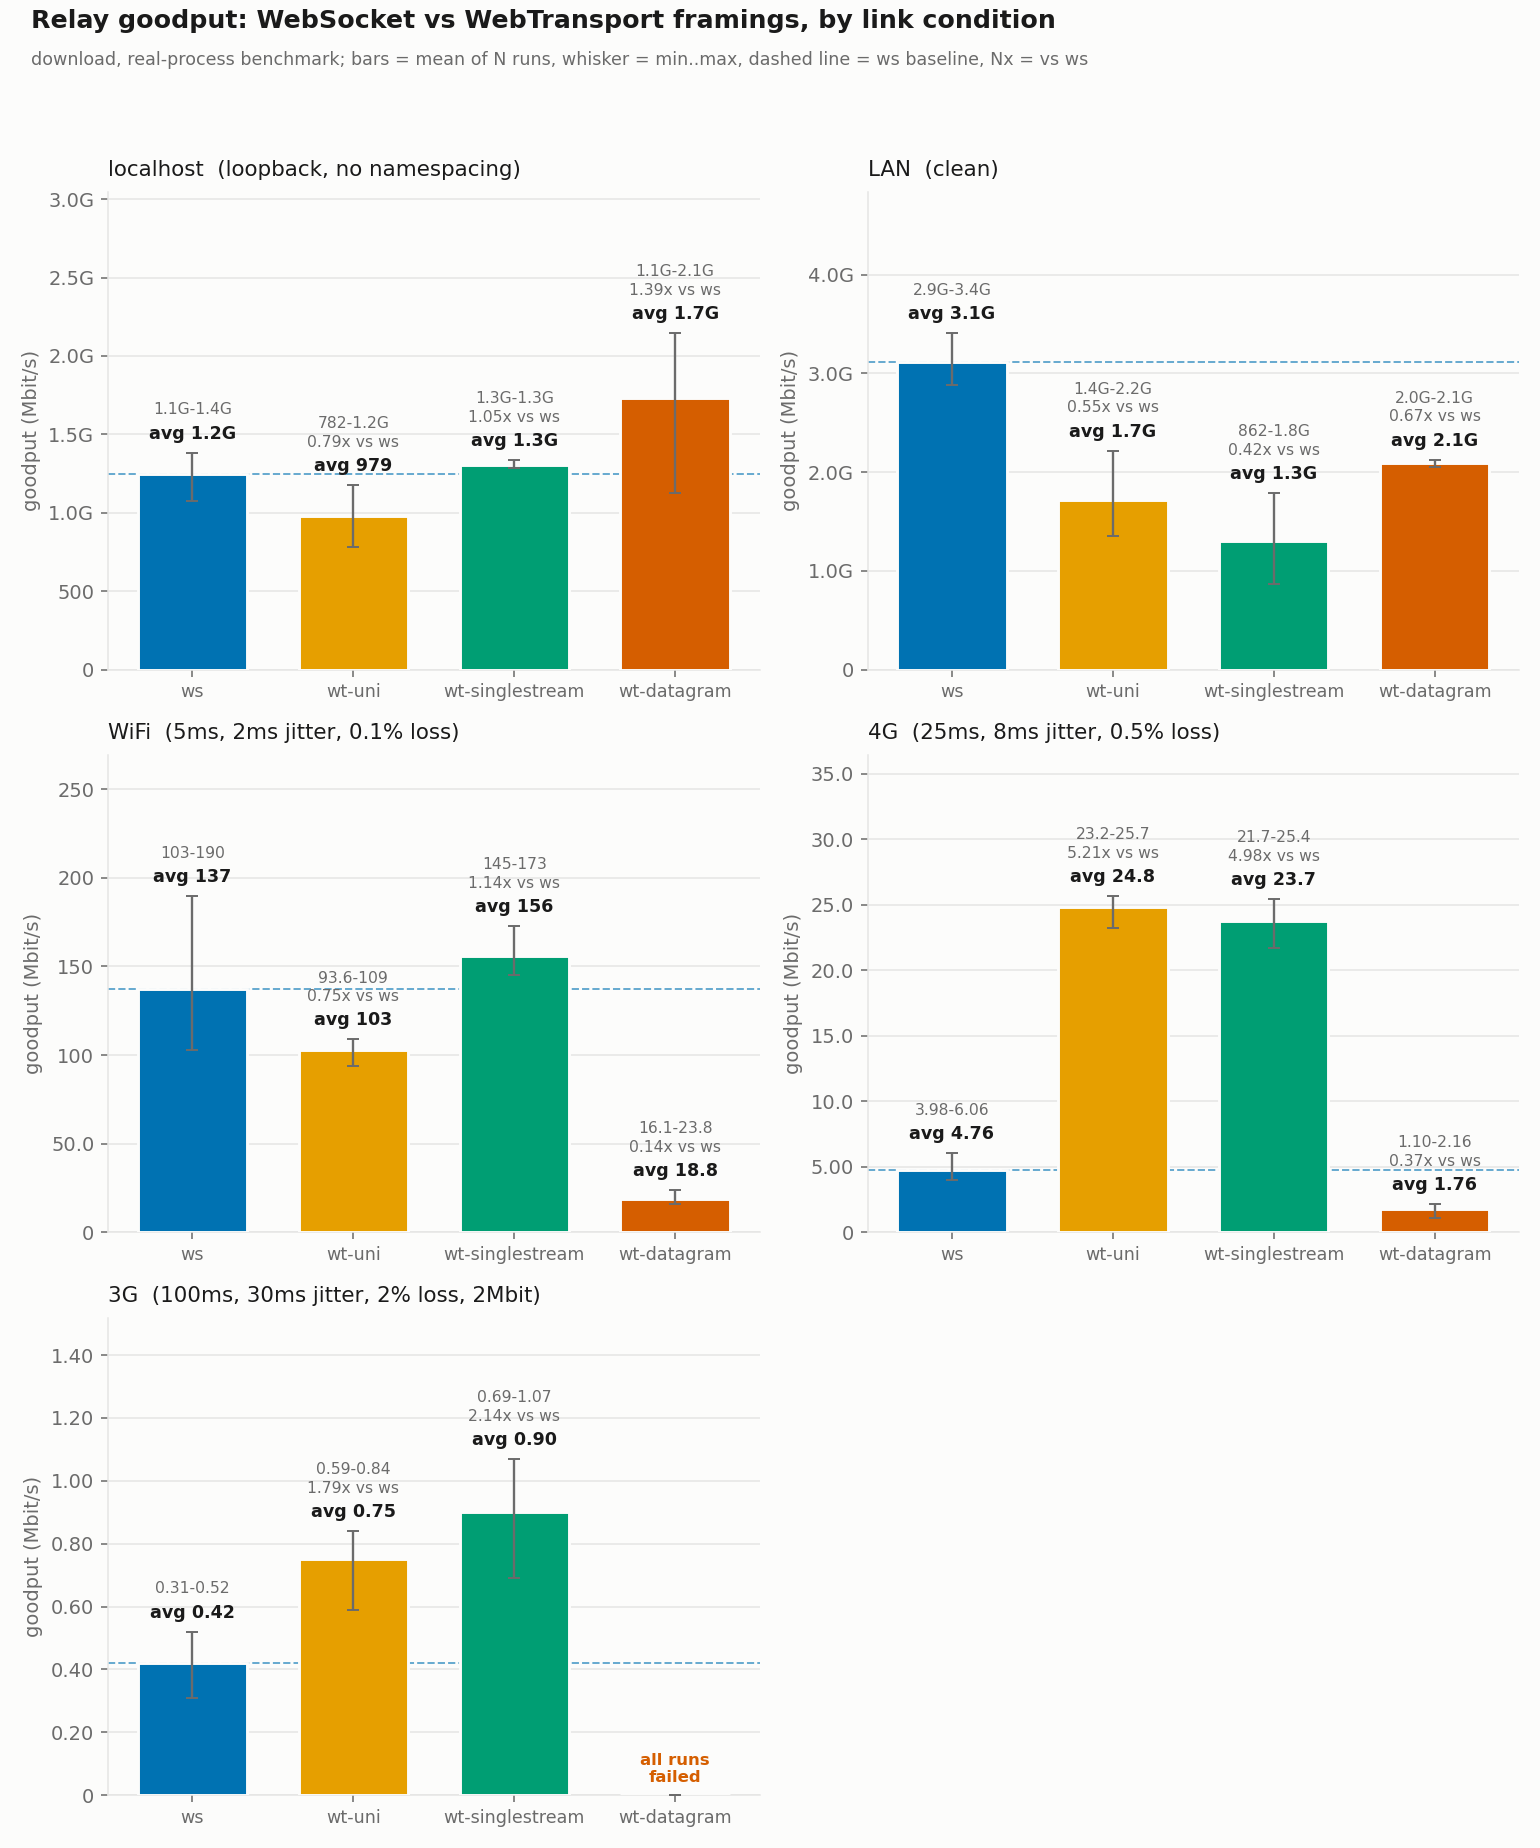
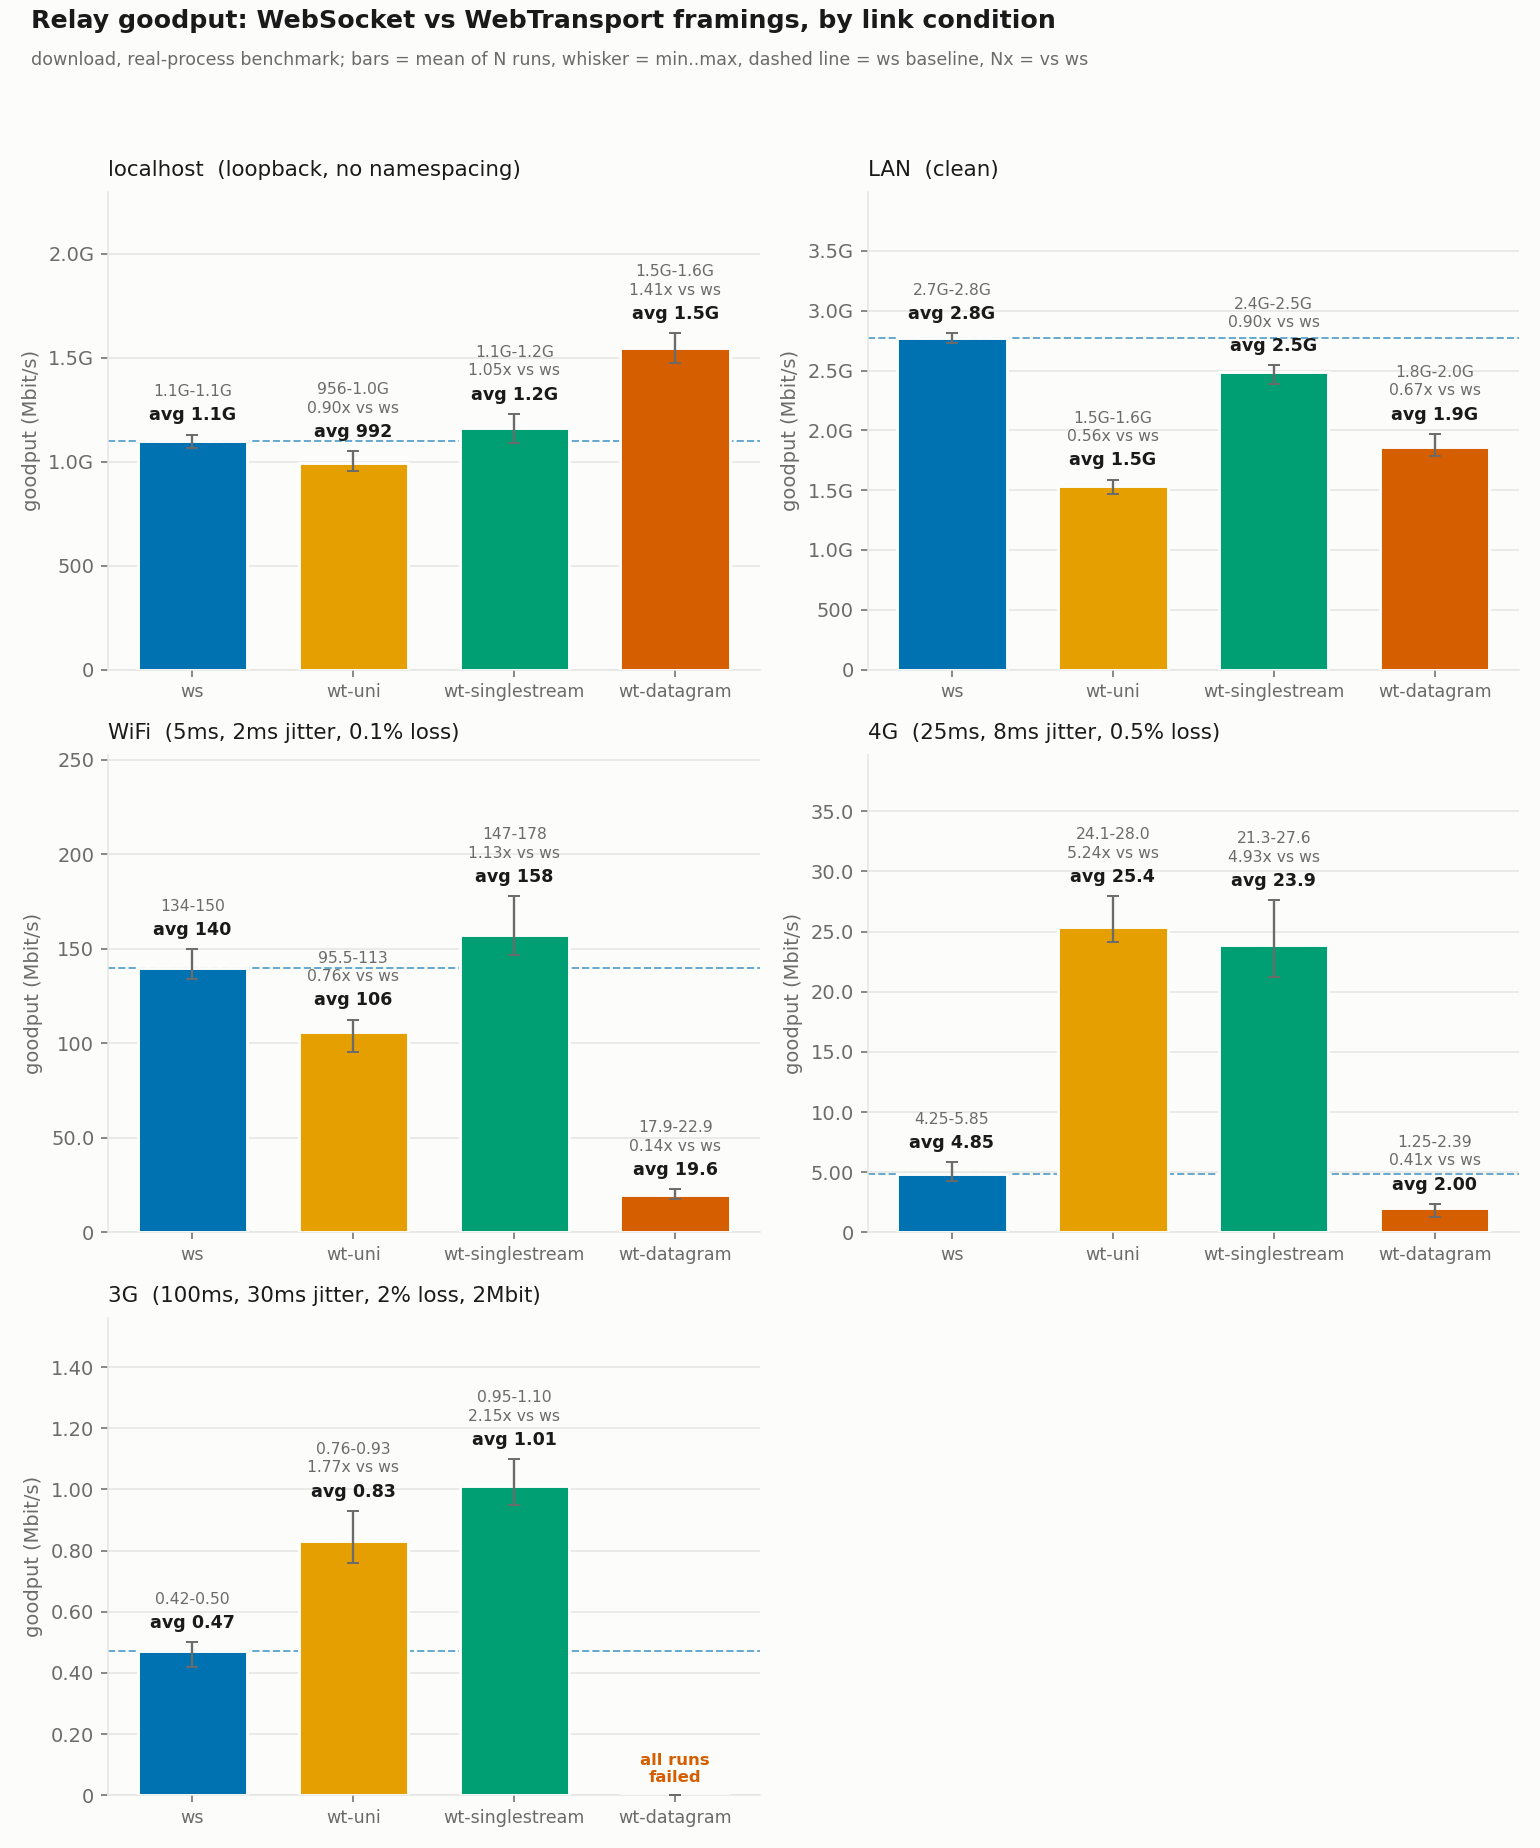
docs(bench): correct results to forced-WebTransport, drop contaminated set
The saved matrix now forces WebTransport for every wt-* run, so those numbers
are guaranteed to be over WebTransport rather than a silent WebSocket fallback
(which the client does on a fast path where the WS handshake wins the race). The
earlier localhost wt-datagram figure was actually WebSocket; corrected here.

Drops patchbay-5x4s, which predates the --webtransport-only fix and whose
fast-path (lan) wt cells may have raced to WebSocket. matrix-3x10s is now the
single authoritative set. bench.md documents the WS-fallback caveat.

diff --git a/bench/results/bench.md b/bench/results/bench.md
@@ -69,26 +69,37 @@ transport on an ideal path.
 
 | file | harness | runs x duration | notes |
 | ---- | ------- | --------------- | ----- |
-| `matrix-3x10s`  | patchbay + loopback | 3 x 10 s | the definitive steady-state sweep, incl. the `localhost` panel |
-| `patchbay-5x4s` | patchbay | 5 x 4 s | short-duration sweep (more slow-start weight, noisier on fast links) |
+| `matrix-3x10s`  | patchbay + loopback | 3 x 10 s | the authoritative steady-state sweep, incl. the `localhost` panel; all wt-* runs force WebTransport |
 
 ### `matrix-3x10s` numbers (download goodput, Mbit/s, mean of 3)
 
+Every `wt-*` run forces the WebTransport transport (`--webtransport-only`), so
+these numbers are guaranteed to be over WebTransport and never a silent
+WebSocket fallback. That fallback matters here: the relay client races a
+WebSocket connect against the WebTransport handshake and keeps whichever wins,
+and on a fast path (localhost, and often lan) the WebSocket TCP handshake wins,
+so without forcing it a `wt-*` request is served over WebSocket. (An earlier run
+of this table had localhost `wt-datagram` = 1729 which was actually WebSocket;
+the corrected genuine-WebTransport value is below.)
+
 | condition | ws | wt-uni | wt-singlestream | wt-datagram |
 | --------- | -- | ------ | --------------- | ----------- |
-| localhost | 1247 | 979 | 1303 | **1729** |
-| lan       | **3116** | 1721 | 1301 | 2092 |
-| wifi      | 137 | 103 | **156** (1.14x) | 19 |
-| 4g        | 4.8 | **24.8** (5.2x) | 23.7 (5.0x) | 1.8 |
-| 3g        | 0.42 | 0.75 (1.8x) | **0.90** (2.1x) | fail (flaky setup) |
+| localhost | 1101 | 992 | 1161 | **1548** |
+| lan       | **2769** | 1538 | 2485 | 1858 |
+| wifi      | 140 | 106 | **158** (1.13x) | 20 |
+| 4g        | 4.8 | **25.4** (5.24x) | 23.9 (4.93x) | 2.0 |
+| 3g        | 0.47 | 0.83 (1.77x) | **1.01** (2.15x) | fail (see note) |
 
 Reading it: on an ideal path (localhost, huge MTU, no loss) the unreliable
-datagram framing is fastest and the streams are close; on a clean gigabit LAN
-WebSocket's single kernel-TCP stream wins (WebTransport pays double-QUIC
-overhead); from wifi onward the reorder/loss tolerance of the fixed WebTransport
-hop takes over -- parity on wifi, ~5x on 4g (where TCP loss-collapses, see the
-4g section below), ~2x on 3g. `wt-datagram` is strong only on large-MTU paths
-and degrades to unusable on the constrained mobile profiles.
+datagram framing is fastest and singlestream edges out WebSocket; on a clean
+gigabit LAN WebSocket's single kernel-TCP stream wins (WebTransport pays
+double-QUIC overhead); from wifi onward the reorder/loss tolerance of the fixed
+WebTransport hop takes over -- parity+ on wifi (singlestream 1.13x), ~5x on 4g
+(where TCP loss-collapses, see the 4g section below), ~2x on 3g. `wt-datagram`
+is strong only on large-MTU paths and degrades to unusable on the constrained
+mobile profiles. On 3g `wt-datagram` now fails all runs because forcing
+WebTransport removes the WebSocket fallback that previously masked its flaky
+connection setup on that profile (see the wt-datagram note).
 
 Each `.png` is small multiples (one panel per condition, own linear scale since
 goodput spans ~3 Gbit on LAN to ~0.5 Mbit on 3G); each bar shows its min..max